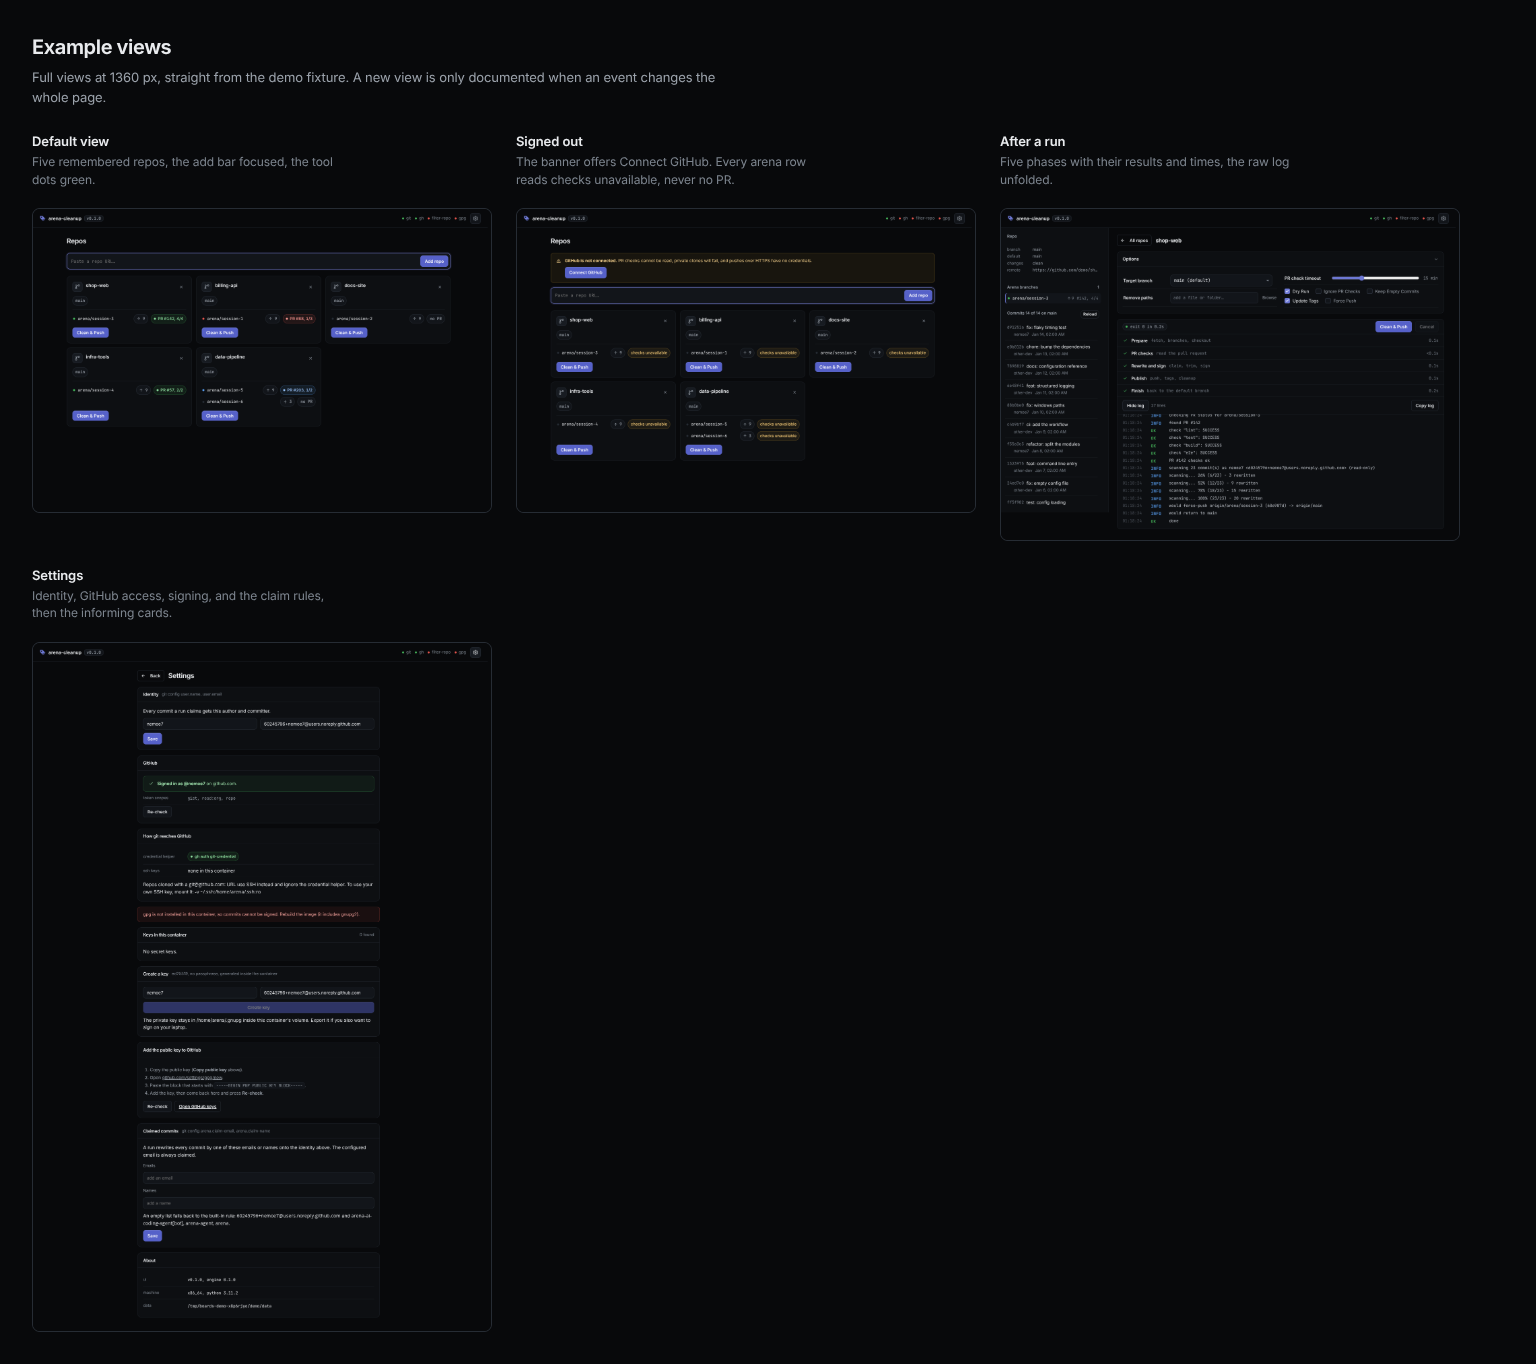
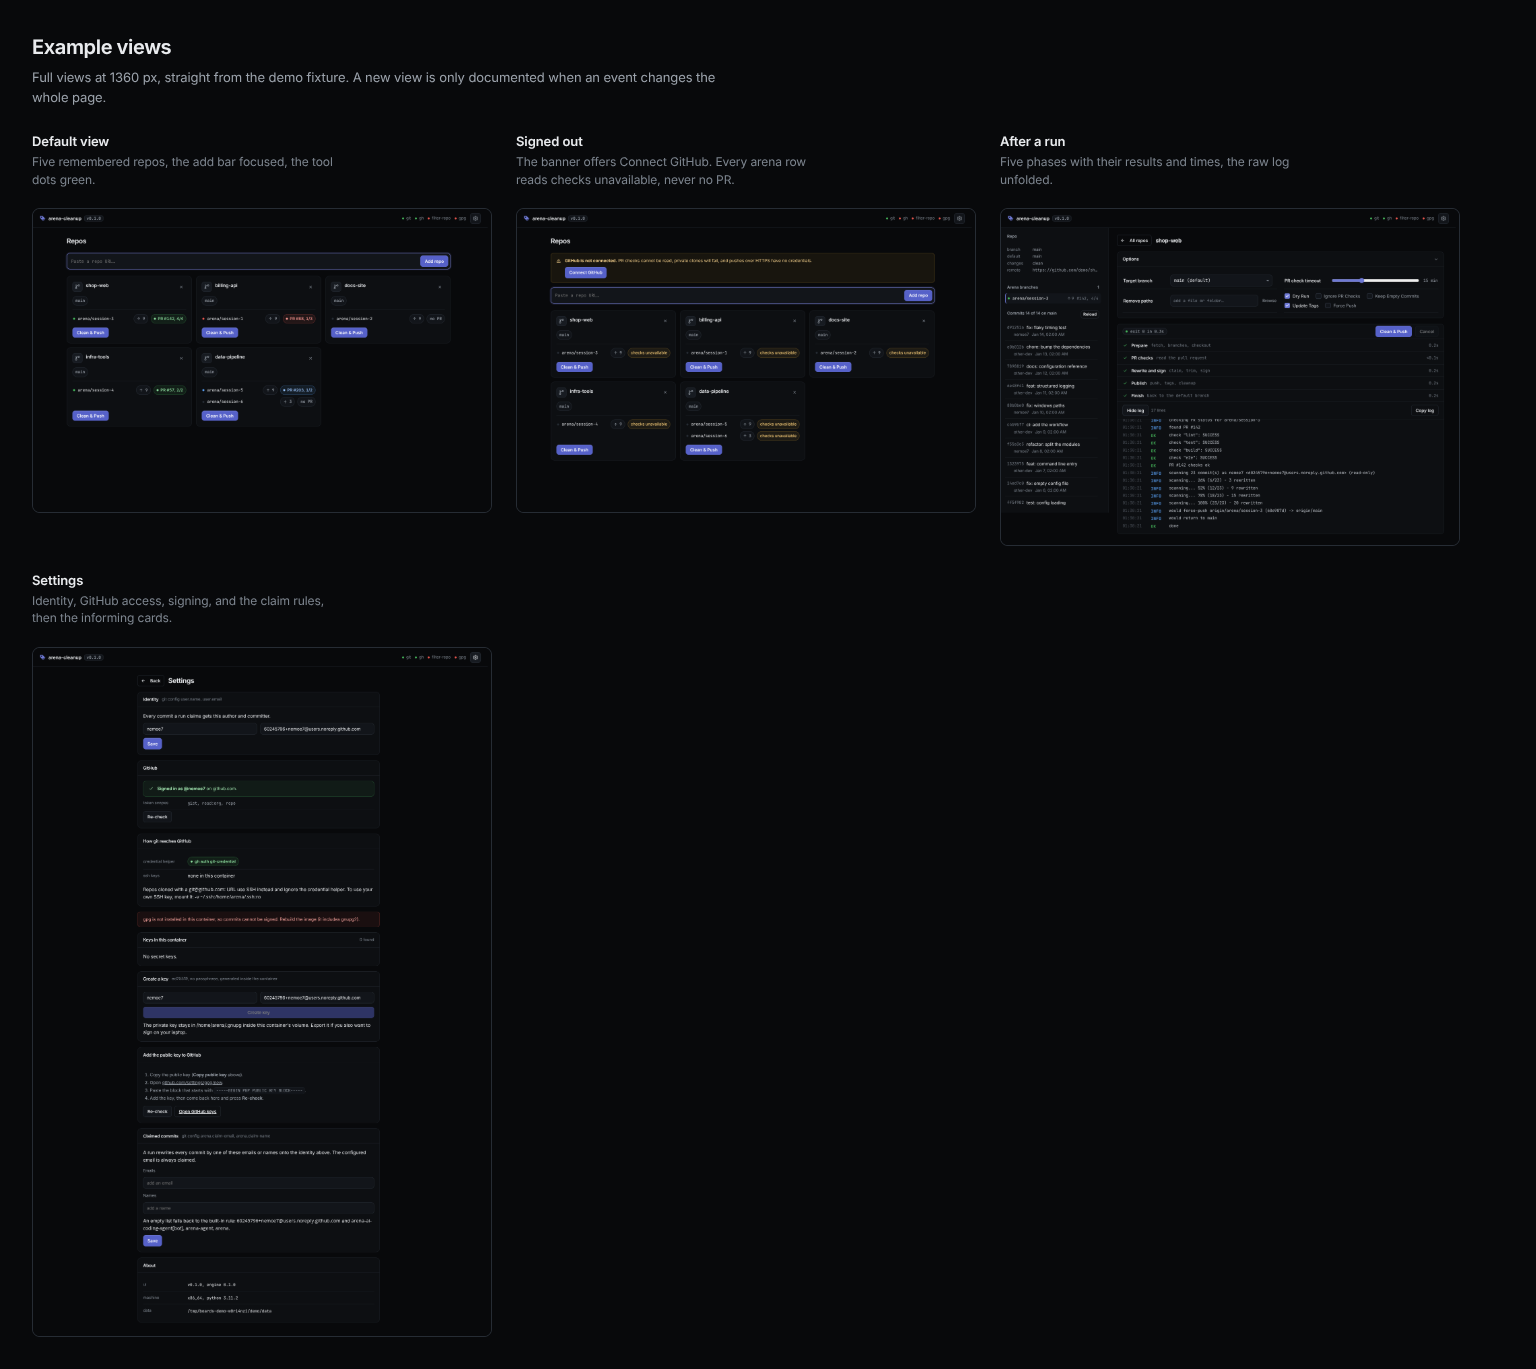
fix(ui): option rows share their lines across both columns

diff --git a/ui/static/index.html b/ui/static/index.html
@@ -337,8 +337,10 @@
   .card-body { padding: 16px; }
 
   /* two columns: a field with its description needs about 360 px, which four cells never give */
-  .options { display: grid; grid-template-columns: repeat(2, minmax(0, 1fr)); gap: 0 20px; }
-  .opt-col { min-width: 0; }
+  /* one grid, so the rows of both columns share their heights and lines */
+  .options { display: grid; grid-template-columns: repeat(2, minmax(0, 1fr)); grid-auto-flow: row dense; gap: 0 20px; }
+  #opt-branch, #opt-arena, #opt-paths { grid-column: 1; }
+  #opt-timeout, #checks { grid-column: 2; }
   .opt { padding: 8px 2px; border-bottom: 1px solid var(--line); min-width: 0; }
   .opt[hidden] { display: none; }
   /* the settings page labels its token field with a label and a short note */
@@ -350,7 +352,7 @@
   .opt.row .tree { grid-column: 1 / -1; }
   .slider { width: 100%; margin: 0; accent-color: var(--accent); }
   .readout { font: var(--fs-1) var(--mono); color: var(--muted); min-width: 6ch; text-align: right; }
-  .checks { display: flex; flex-wrap: wrap; gap: 8px 20px; padding: 10px 2px; }
+  .checks { display: flex; flex-wrap: wrap; align-content: start; gap: 8px 20px; padding: 10px 2px; }
   .check { display: inline-flex; align-items: center; gap: 8px; color: var(--muted); font-size: var(--fs-2); cursor: pointer; }
   /* the box is drawn here, not by the browser: Lucide check, house radius, accent fill */
   .check input {
@@ -552,7 +554,8 @@
     .detail { grid-template-columns: 1fr; grid-template-rows: auto auto; align-content: start; }
     .sidebar { order: 2; position: static; height: auto; overflow: visible; border-right: 0; border-top: 1px solid var(--line); }
     .side-commits .commits { overflow: visible; min-height: 0; }  /* one scroll: the page */
-    .options { grid-template-columns: 1fr; }
+    .options { grid-template-columns: 1fr; grid-auto-flow: row; }
+    #opt-branch, #opt-arena, #opt-paths, #opt-timeout, #checks { grid-column: auto; }
     .grid { grid-template-columns: 1fr; }
   }
   @media (max-width: 720px) {
@@ -722,37 +725,33 @@
             <span class="caret"><span class="ico-svg" data-icon="chevron-right" aria-hidden="true"></span></span>
           </button>
           <div class="card-body options" id="options">
-            <div class="opt-col">
-              <div class="opt row" id="opt-branch">
-                <label for="branch">Target branch</label>
-                <select class="field mono-field" id="branch" title="The default branch runs via the arena branch. A named branch is cleaned in place."></select>
-              </div>
-              <div class="opt row" id="opt-arena" hidden>
-                <label for="arena">Arena branch</label>
-                <select class="field mono-field" id="arena" title="The session this run cleans, newest activity first."></select>
-              </div>
-              <div class="opt row" id="opt-paths">
-                <label for="pathin">Remove paths</label>
-                <div class="chips" id="chips" title="git filter-repo removes each path from every ref.">
-                  <input id="pathin" placeholder="add a file or folder…" spellcheck="false" autocomplete="off" aria-label="Add a path to remove">
-                </div>
-                <button type="button" class="link-btn" id="browse" aria-expanded="false" aria-controls="tree">Browse</button>
-                <div class="tree" id="tree" role="tree" aria-label="Files at HEAD" hidden></div>
-              </div>
+            <div class="opt row" id="opt-branch">
+              <label for="branch">Target branch</label>
+              <select class="field mono-field" id="branch" title="The default branch runs via the arena branch. A named branch is cleaned in place."></select>
             </div>
-            <div class="opt-col">
-              <div class="opt row" id="opt-timeout">
-                <label for="timeout">PR check timeout</label>
-                <input class="slider" id="timeout" type="range" min="0" max="9" step="1" value="3" title="How long the run waits for the pull request checks; 0 does not wait.">
-                <output class="readout" id="timeout-out" for="timeout">15 min</output>
+            <div class="opt row" id="opt-arena" hidden>
+              <label for="arena">Arena branch</label>
+              <select class="field mono-field" id="arena" title="The session this run cleans, newest activity first."></select>
+            </div>
+            <div class="opt row" id="opt-paths">
+              <label for="pathin">Remove paths</label>
+              <div class="chips" id="chips" title="git filter-repo removes each path from every ref.">
+                <input id="pathin" placeholder="add a file or folder…" spellcheck="false" autocomplete="off" aria-label="Add a path to remove">
               </div>
-              <div class="opt checks" id="checks">
-                <label class="check" title="Prints every step it would take and writes nothing."><input type="checkbox" data-opt="dry_run">Dry Run</label>
-                <label class="check" title="Publishes even when the pull request still has running or failing checks."><input type="checkbox" data-opt="skip_pr_check">Ignore PR Checks</label>
-                <label class="check" title="Keeps commits that would be empty once the removed paths are gone."><input type="checkbox" data-opt="keep_empty">Keep Empty Commits</label>
-                <label class="check" title="Moves the tags to the rewritten commits. Unchecked, they stay on the old ones."><input type="checkbox" data-opt="update_tags" checked>Update Tags</label>
-                <label class="check danger" title="Pushes even when the push would drop commits that are on the default branch."><input type="checkbox" data-opt="force">Force Push</label>
-              </div>
+              <button type="button" class="link-btn" id="browse" aria-expanded="false" aria-controls="tree">Browse</button>
+              <div class="tree" id="tree" role="tree" aria-label="Files at HEAD" hidden></div>
+            </div>
+            <div class="opt row" id="opt-timeout">
+              <label for="timeout">PR check timeout</label>
+              <input class="slider" id="timeout" type="range" min="0" max="9" step="1" value="3" title="How long the run waits for the pull request checks; 0 does not wait.">
+              <output class="readout" id="timeout-out" for="timeout">15 min</output>
+            </div>
+            <div class="opt checks" id="checks">
+              <label class="check" title="Prints every step it would take and writes nothing."><input type="checkbox" data-opt="dry_run">Dry Run</label>
+              <label class="check" title="Publishes even when the pull request still has running or failing checks."><input type="checkbox" data-opt="skip_pr_check">Ignore PR Checks</label>
+              <label class="check" title="Keeps commits that would be empty once the removed paths are gone."><input type="checkbox" data-opt="keep_empty">Keep Empty Commits</label>
+              <label class="check" title="Moves the tags to the rewritten commits. Unchecked, they stay on the old ones."><input type="checkbox" data-opt="update_tags" checked>Update Tags</label>
+              <label class="check danger" title="Pushes even when the push would drop commits that are on the default branch."><input type="checkbox" data-opt="force">Force Push</label>
             </div>
           </div>
         </section>

diff --git a/tests/e2e/test_options.py b/tests/e2e/test_options.py
@@ -34,3 +34,16 @@ def test_the_arena_option_shows_the_branch_and_the_day(desktop: Walker) -> None:
   for value, label, title in options:
     assert label.startswith(f"{value} · ") and ":" not in label, label
     assert title.startswith(value) and ":" in title, title
+
+
+def test_the_option_rows_share_their_lines(desktop: Walker) -> None:
+  desktop.goto(1200)
+  desktop.click(".repo-card", 800)
+  edges = "e => { const b = e.getBoundingClientRect(); return [b.top, b.bottom]; }"
+  rows = {
+    name: desktop.page.eval_on_selector(f"#{name}", edges)
+    for name in ("opt-branch", "opt-paths", "opt-timeout", "checks")
+  }
+  assert rows["opt-timeout"] == rows["opt-branch"]
+  assert rows["checks"] == rows["opt-paths"]
+  assert rows["opt-paths"][0] == rows["opt-branch"][1]

diff --git a/docs/design.md b/docs/design.md
@@ -140,6 +140,6 @@ The one design record for the arena-cleanup web app. The sections follow the nem
 - Accepted 2026-10-22: the primary button reads Clean & Push. The phase list keeps Publish for the push, tags, and cleanup step.
 - Accepted 2026-10-22: a tree selector for Remove paths. It reads `git ls-tree` of HEAD in the clone, so it works for path repos and never calls GitHub. File contents stay out. A path only old commits carried stays a typed chip.
 - Accepted 2026-10-23: the primary button takes `accent-deep`, 5.3:1 under white, and `accent-deep-hi` on hover. The `accent` token stays for fills and marks.
-- Accepted 2026-10-23: the options card puts the selects and Remove paths left, PR check timeout and the checkboxes right. Two column wrappers flow on their own, so a long path list never pushes the timeout down.
+- Accepted 2026-10-23: the options card puts the selects and Remove paths left, PR check timeout and the checkboxes right. One grid with column-locked rows: PR check timeout shares the Target branch row, the checks share the next row.
 - Accepted 2026-10-23: the page draws the checkboxes. `appearance: none` drops the browser box, so the boxes match the select and the fields in every browser.
 - Accepted 2026-10-22: the card Remove X moves from the action row to the top right corner. At rest it is a bare glyph, so the primary button stands alone. The red frame returns on hover, on press, and while armed.
